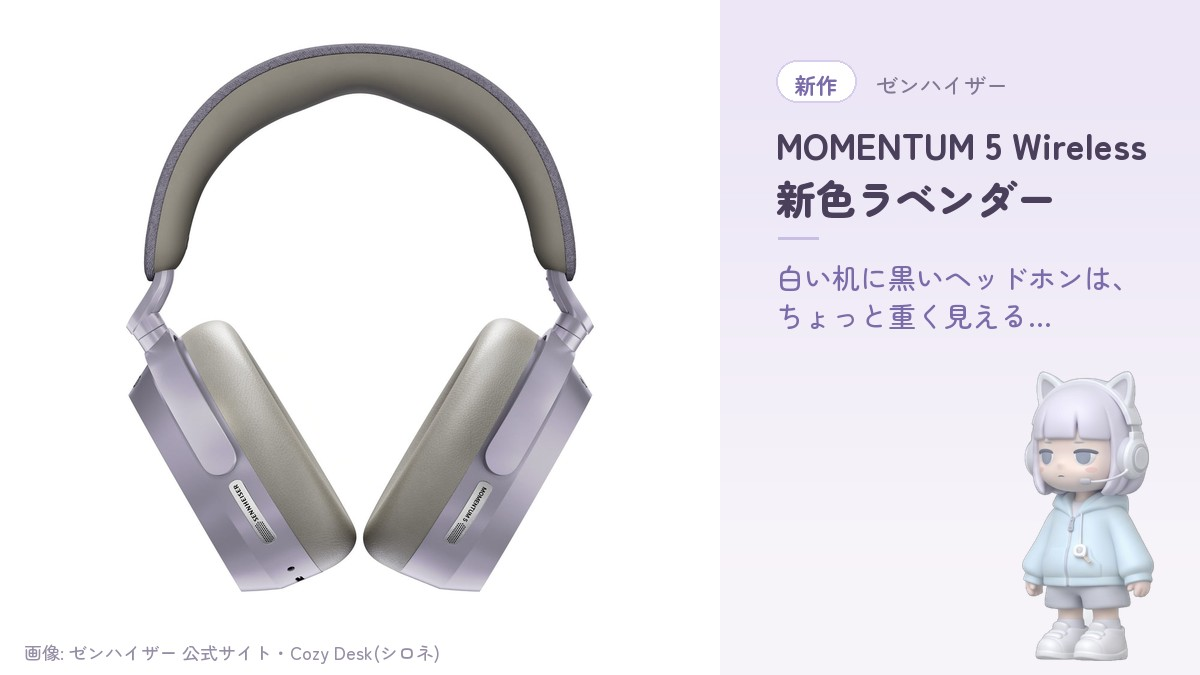
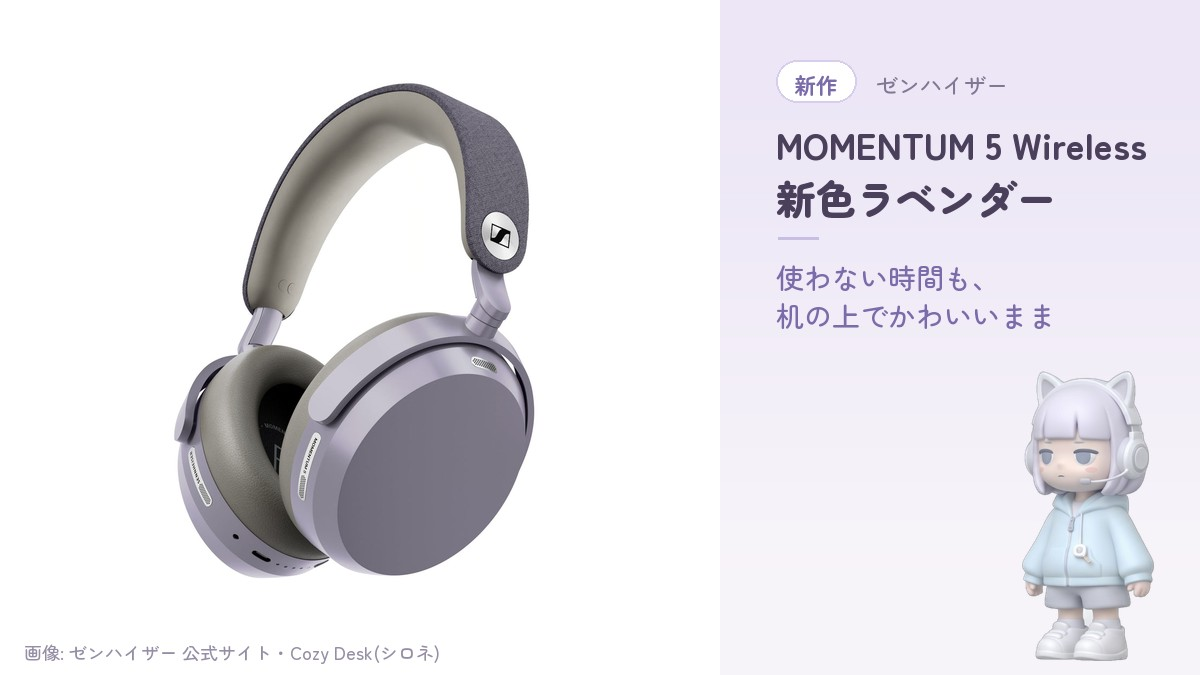
Cozy Desk の軸を「悩み→解決」から「毎日がちょっと楽しくなるワクワク」へ(本人 11/6)。ゼンハイザーの記事・X 画像も直す

Changed region(s): [[0.0925, 0.0622, 0.4933, 0.9022], [0.6475, 0.3733, 0.925, 0.4978]]

diff --git a/docs/X_POSTING.md b/docs/X_POSTING.md
@@ -9,13 +9,14 @@
 - 言わないこと: 使った感想(最高・手放せない など)、経歴や体験(買った・届いた・使っている)、値段の煽り
 - 事実は記事と同じく、公式で確かめたものだけ
 
-## いちばん大事なこと: 悩み → 解決(2026-11-04 本人の基本方針)
+## いちばん大事なこと: 毎日がちょっと楽しくなる(2026-11-06 本人)
 
-何が新しいか・どんな機能かも大事だが、**一番大事なのは「読む人がどんな悩みを持っていて、この商品でその悩みがどう解決するか」**。
+ガジェットで一番大事なのは、**手に入れると毎日の暮らしがちょっと楽しくなる・デスクがちょっとおしゃれになる・テンションが上がる、というワクワク感**(11/6 本人)。
+11/4 の「悩み → 解決」は、困りごとがはっきりある物(ケーブルが迷子になる、など)のときに使う。困りごとを無理に作らない。
 
-- 文は「悩み(机の上の困った・もやっと)→ この物でどう変わるか」の順に組む。新しさ・機能・数字は、解決の裏づけとして添える
-- 例: ×「USB-C が出てきて戻る、新しい電源タップ」 → ○「充電ケーブル、机の上でいつも迷子になる…。これはタップの中から出てきて、使い終わったらしゅるっと戻るみたい」
-- 悩みは公式が示す機能から言える範囲で書く。使った体験・感想は作らない(シロネは使っていない)
+- 文は「この物がある毎日の一場面(机に向かう・手に取る・置いておく)→ 何が楽しいか・かわいいか」の順に組む。新しさ・機能・数字は、その裏づけとして添える
+- 例: ×「白い机に黒いヘッドホン、そこだけ重く見える…」(困りごとから入る) → ○「机の上に、好きな色がひとつ増えるとうれしいよね」
+- 楽しさは、公式が示す色・形・仕掛けから言える範囲で書く。使った体験・感想は作らない(シロネは使っていない)
 
 ## 型(11/4 夕方に本人と組み直した)
 
@@ -52,7 +53,7 @@ X で白・淡色デスク界隈を調べた結果(`notes/desk-gadgets/x-competi
 ## 画像の作り方
 
 - 背景は継ぎ目のない撮影用の背景(上の淡いラベンダーから下の白へ)。壁と机の境目の線を入れない(本人が「不自然」と指摘)。部品は `scripts/x_render.py`
-- **新作**: 1200×675。左720pxに公式写真、右に淡いラベンダーの面で「新作」の札・メーカー名・物の名前・悩みを解決する一言、右下に斜めの姿のシロネ(`docs/character/shirone/diag.png`)。**シロネは写真の方を向く。物に背を向けさせない**(11/4 本人が3案から選んだ。前の「写真＋隅の顔のスタンプ」は「おしゃれじゃない・シロネが浮いている」と言われてやめた)。`scripts/x_new.py`
+- **新作**: 1200×675。左720pxに公式写真、右に淡いラベンダーの面で「新作」の札・メーカー名・物の名前・ワクワクする一言、右下に斜めの姿のシロネ(`docs/character/shirone/diag.png`)。**シロネは写真の方を向く。物に背を向けさせない**(11/4 本人が3案から選んだ。前の「写真＋隅の顔のスタンプ」は「おしゃれじゃない・シロネが浮いている」と言われてやめた)。`scripts/x_new.py`
 - **切り口**(まとめの物を1つずつ): 1200×675。写真＋隅のシロネの顔のスタンプ(新作の形に寄せるかは本人に聞く)
 - **デスクレシピ**: 1200×1500。上に看板の言葉(小さい一言＋題)、2列のカードに写真・番号・名前・特徴2行、下にシロネと「買える場所は、返信のリンクから」
 - **大きさ比べ**(おまけ): 物は本体だけで高さをそろえる(コードは入れない)。シロネは設定画の斜めの姿(目の透けは元の色で埋める)を背丈10cmで

diff --git a/docs/DAILY.md b/docs/DAILY.md
@@ -52,8 +52,8 @@ git pull --rebase -q
   - `japan:` は期待を残す書き方にする。否定は最初の1文だけにして、来る見込み・今すぐの選び方へつなぐ。無線の物は「日本向けの発売を待つのが安心です」とやさしく書く
   - `alt_q:` に、日本で売っている近い色・形の物に当たる言葉を書く
   - 値段はドルのまま。円にしない
-- 本文は「こんな悩みに」(机の上のどんな困りごとが、この物でどう変わるか。公式の機能から言える範囲で)・「ここがかわいい」(色・形・素材の事実を箇条書き)・「大きさと使い方」(表)。くわしい例は yunzii-c21
-- タイトルは**30字くらいまで**(2026-11-06 本人)。悩みかうれしさを一言→メーカー名と色→いちばんの違い。くわしくは WRITING.md の「タイトル」。煽らない・感嘆符なし
+- 本文は「こんな毎日に」(この物がある毎日の一場面と、何がちょっと楽しくなるか・デスクがどうおしゃれになるか。11/6 本人「ワクワク感が大事」。公式の色・形・機能から言える範囲で)・「ここがかわいい」(色・形・素材の事実を箇条書き)・「大きさと使い方」(表)。くわしい例は yunzii-c21
+- タイトルは**30字くらいまで**(2026-11-06 本人)。ワクワクする一言→メーカー名と色→いちばんの違い。くわしくは WRITING.md の「タイトル」。煽らない・感嘆符なし
 - `thumbnail` は公式の写真の URL。開けることを確かめる。白背景の切り抜き写真なら `thumb_fit: true`
 - `sources:` に確かめたページを全部書く
 
@@ -82,7 +82,7 @@ python scripts/x_new.py --image "<公式写真のURLかファイル>" --out asse
 ```
 
 - 写真は、物全体がよく見える公式写真を選ぶ(白背景の製品写真がいちばん合う)
-- `--hook` は X の本文と同じ「悩み → 解決」を短く(例: 「顔を見れば、|充電の強さがわかる」)。機能の名前を並べない
+- `--hook` は X の本文と同じワクワクする一言を短く(例: 「使わない時間も、|机の上でかわいいまま」)。困りごとから入らない。機能の名前を並べない
 - 物の端が切れるときは `--zoom 0.85` のように小さくし、`--fx`(0〜1)で左右の寄せ方を変える
 - できた画像を開いて見る。物が切れていたり、文字があふれていたりしたら、写真や言葉を変えて作り直す
 - 公式サイトがプログラムからの取得を断る写真(403)は、ブラウザで開いて画面から取り、そのファイルを `--image` に渡す。リファラーの偽装はしない
@@ -118,7 +118,7 @@ git add content assets/x assets/clips && git -c commit.gpgsign=false commit -m "
 }]
 ```
 
-- **本文は「悩み → この物でどう解決するか」の順に組む**(本人の基本方針、X_POSTING.md の「いちばん大事なこと」)。新しさ・機能は裏づけとして添える
+- **本文は「この物がある毎日の一場面 → 何がちょっと楽しくなるか」の順に組む**(11/6 本人、X_POSTING.md の「いちばん大事なこと」)。新しさ・機能は裏づけとして添える
 - 本文はシロネの口調(少し眠そう・短い・はしゃがない)。物の感想・使った話は書かない
 - **「日本で買えるか」「日本未発売」は書かない**(本人)。日本で買えるかは記事の中で書く
 - `#PR` を本文に入れる。リンクは返信(`reply`)に置く

diff --git a/docs/WRITING.md b/docs/WRITING.md
@@ -49,8 +49,9 @@
 - 置いたときの景色・気分・かわいさから入る。数は「◯選」のように後ろへ
 - 「A、B◯つ。C」のように読点と句点で言葉を並べる形は、AI が書いた文に見えるので使わない
 - 例: ×「白いPCスピーカー、日本で今買える8つ。モニターの両脇にちょこんと置く」 → ○「モニターの横に、白くて小さなスピーカー。デスクがすっきり見える8選」
-- **新作の記事(kind: new)は30字くらいまで**(2026-11-06 本人)。前半に悩みかうれしさを一言、そのあとにメーカー名と色、いちばんの違いを1つ。比喩や景色の描写を長く書かない。検索結果や X のカードで30字前後から先は切れる
+- **新作の記事(kind: new)は30字くらいまで**(2026-11-06 本人)。前半にワクワクする一言(楽しくなる・おしゃれになる)、そのあとにメーカー名と色、いちばんの違いを1つ。比喩や景色の描写を長く書かない。検索結果や X のカードで30字前後から先は切れる
 - 例: ×「黒いヘッドホンが浮いていた白い机に、ラベンダー色をひとつ。ゼンハイザー「MOMENTUM 5 Wireless」の新色は、ケースまで同じ色」(約60字) → ○「白デスクで浮かない。ゼンハイザーのラベンダー、ケースまで同じ色」(31字)
+- 本文の最初の見出しは「こんな毎日に」(11/6 本人)。困りごとを並べるより、この物がある毎日の一場面と、何がちょっと楽しくなるかを書く
 
 ## 文の調子
 

diff --git a/content/posts/2026-11-06-sennheiser-momentum-5-lavender.md b/content/posts/2026-11-06-sennheiser-momentum-5-lavender.md
@@ -36,11 +36,11 @@ sources:
   - {name: Amazon.co.jp の商品ページ(Amazon.co.jp 限定セット・国内正規品), url: "https://www.amazon.co.jp/dp/B0HJZ5TFR6"}
 ---
 
-## こんな悩みに
+## こんな毎日に
 
-白い机に黒いヘッドホンを置くと、そこだけ重く見えます。かといって真っ白なヘッドホンは、汚れが気になって手が伸びにくいこともあります。
+机に向かうと、白い天板の端にラベンダー色のヘッドホンがひとつ。それだけで、いつもの机が少し自分らしく見えます。
 
-この新色は、淡い紫のラベンダーに、明るい茶色のヘッドバンドとイヤーパッドを合わせた2トーン。白い机やベージュの小物の中に置いても、沈まず、浮きすぎず、ひとつだけ色のある場所になります。しまうときのケースも同じラベンダー色なので、机の端に置いたままでも、物が散らかって見えません。
+この新色は、淡い紫のラベンダーに、明るい茶色のヘッドバンドとイヤーパッドを合わせた2トーン。白やベージュの小物とも並べやすい色です。しまうケースまで同じラベンダーなので、使わない時間も、机の上の飾りのように置いておけます。
 
 ## ここがかわいい
 
